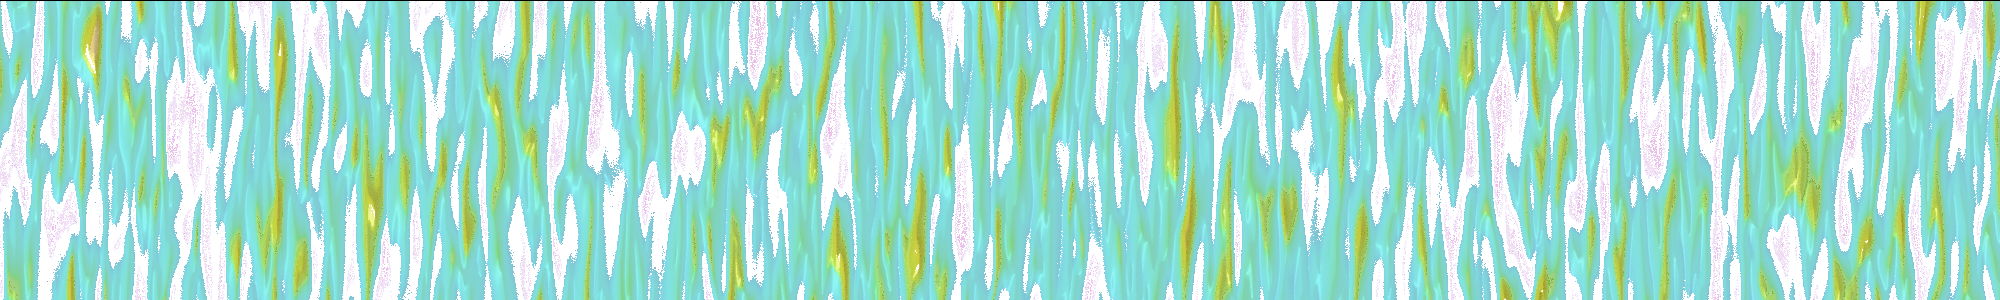
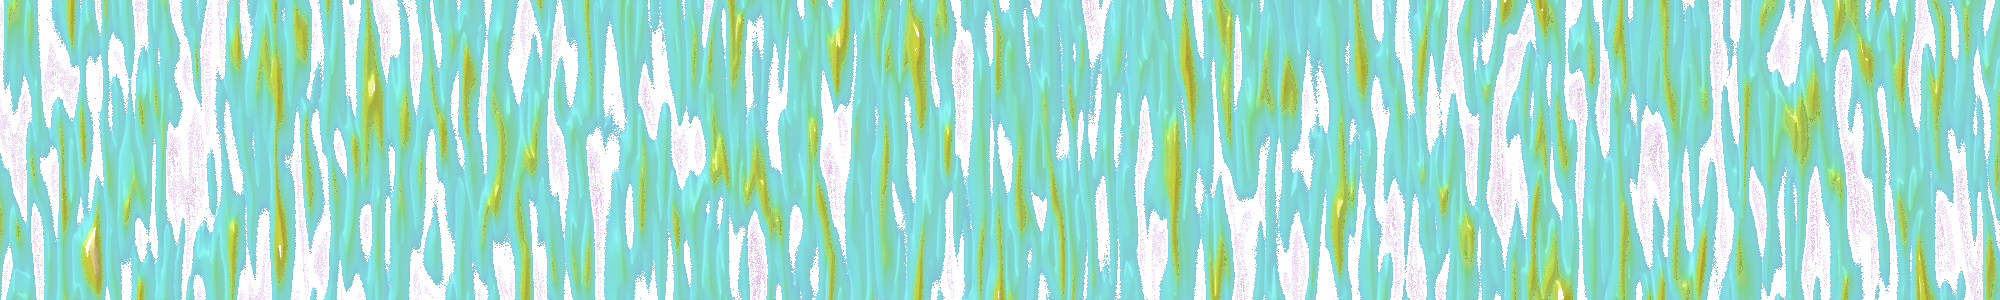
Add files via upload

diff --git a/aud2img.js b/aud2img.js
@@ -102,7 +102,7 @@ function audioToImage(file) {
     // Write image
     for (let y = 0; y < imgY; y++) {
         for (let x = 0; x < imgX; x++) {
-            image.setPixelColor(dataArray[arrayIndex], x, imgY - y);
+            image.setPixelColor(dataArray[arrayIndex], x, y);
             arrayIndex += 1;
         }
     }
